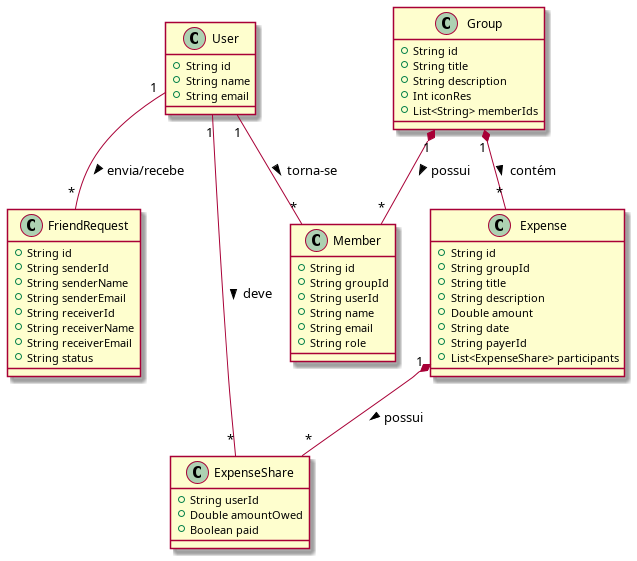
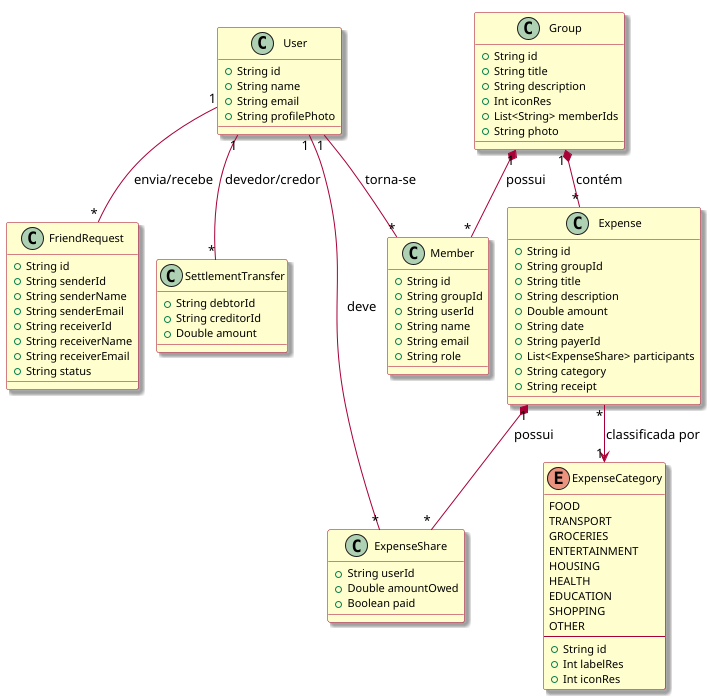
fix readme

diff --git a/app/src/main/java/com/example/divideai/ui/groups/form/GroupFormViewModel.kt b/app/src/main/java/com/example/divideai/ui/groups/form/GroupFormViewModel.kt
@@ -42,7 +42,7 @@ class GroupFormViewModel(application: Application) : AndroidViewModel(applicatio
     }
 
     private fun resolveImage(): String =
-        pendingImage ?: _groupToEdit.value?.imageBase64 ?: ""
+        pendingImage ?: _groupToEdit.value?.photo ?: ""
 
     fun saveGroup(title: String, description: String) {
         val app = getApplication<Application>()
@@ -58,7 +58,7 @@ class GroupFormViewModel(application: Application) : AndroidViewModel(applicatio
                 title = title,
                 description = description,
                 memberIds = _groupToEdit.value?.memberIds ?: emptyList(),
-                imageBase64 = resolveImage()
+                photo = resolveImage()
             )
             groupRepository.updateGroup(group) { success, errorMessage ->
                 _saveStatus.value = Pair(success, errorMessage)
@@ -66,7 +66,7 @@ class GroupFormViewModel(application: Application) : AndroidViewModel(applicatio
         } else {
             // Modo de criacao
             val currentUser = authRepository.getCurrentUser()
-            val group = Group(title = title, description = description, imageBase64 = resolveImage())
+            val group = Group(title = title, description = description, photo = resolveImage())
 
             groupRepository.addGroup(group) { success, errorMessage, newGroupId ->
                 if (!success || newGroupId == null) {

diff --git a/app/src/main/java/com/example/divideai/ui/profile/EditProfileActivity.kt b/app/src/main/java/com/example/divideai/ui/profile/EditProfileActivity.kt
@@ -47,7 +47,7 @@ class EditProfileActivity : AppCompatActivity() {
                 val name = doc.getString("name") ?: ""
                 binding.etUserName.setText(name)
 
-                val storedPhoto = doc.getString("profileImageBase64")
+                val storedPhoto = doc.getString("profilePhoto")
                 Base64Image.decode(storedPhoto)?.let { bmp ->
                     binding.ivAvatar.setImageBitmap(bmp)
                 }
@@ -133,8 +133,8 @@ class EditProfileActivity : AppCompatActivity() {
 
         val updates = mutableMapOf<String, Any>("name" to newName)
         when {
-            pendingPhotoBase64 != null -> updates["profileImageBase64"] = pendingPhotoBase64!!
-            photoRemoved -> updates["profileImageBase64"] = ""
+            pendingPhotoBase64 != null -> updates["profilePhoto"] = pendingPhotoBase64!!
+            photoRemoved -> updates["profilePhoto"] = ""
         }
 
         FirebaseFirestore.getInstance().collection("users").document(user.uid)

diff --git a/app/src/main/java/com/example/divideai/ui/expenses/form/ExpenseFormViewModel.kt b/app/src/main/java/com/example/divideai/ui/expenses/form/ExpenseFormViewModel.kt
@@ -93,7 +93,7 @@ class ExpenseFormViewModel(application: Application) : AndroidViewModel(applicat
         title: String,
         description: String,
         amountString: String,
-        receiptImageBase64: String = ""
+        receipt: String = ""
     ) {
         val app = getApplication<Application>()
         if (title.isBlank() || amountString.isBlank()) {
@@ -147,7 +147,7 @@ class ExpenseFormViewModel(application: Application) : AndroidViewModel(applicat
             payerId = payer.userId,
             participants = shares,
             category = (_selectedCategory.value ?: ExpenseCategory.DEFAULT).id,
-            receiptImageBase64 = receiptImageBase64
+            receipt = receipt
         )
 
         repository.addExpense(expense) { success, errorMessage ->

diff --git a/app/src/main/java/com/example/divideai/MainActivity.kt b/app/src/main/java/com/example/divideai/MainActivity.kt
@@ -75,7 +75,7 @@ class MainActivity : AppCompatActivity() {
         val profileImage = binding.topAppBar.findViewById<ImageView>(R.id.img_profile_action)
         FirebaseFirestore.getInstance().collection("users").document(uid).get()
             .addOnSuccessListener { doc ->
-                val bmp = Base64Image.decode(doc.getString("profileImageBase64"))
+                val bmp = Base64Image.decode(doc.getString("profilePhoto"))
                 if (bmp != null) {
                     profileImage.setImageBitmap(bmp)
                 } else {

diff --git a/app/src/main/java/com/example/divideai/data/image/UserAvatarCache.kt b/app/src/main/java/com/example/divideai/data/image/UserAvatarCache.kt
@@ -40,7 +40,7 @@ object UserAvatarCache {
         pending[uid] = newWaiters
         FirebaseFirestore.getInstance().collection("users").document(uid).get()
             .addOnSuccessListener { doc ->
-                val base64 = doc.getString("profileImageBase64") ?: ""
+                val base64 = doc.getString("profilePhoto") ?: ""
                 cache[uid] = base64
                 pending.remove(uid)?.forEach { it(base64.takeIf { v -> v.isNotEmpty() }) }
             }

diff --git a/app/src/main/java/com/example/divideai/data/model/Expense.kt b/app/src/main/java/com/example/divideai/data/model/Expense.kt
@@ -16,5 +16,5 @@ data class Expense(
     val payerId: String = "",
     val participants: List<ExpenseShare> = emptyList(),
     val category: String = "",
-    val receiptImageBase64: String = ""
+    val receipt: String = ""
 )

diff --git a/app/src/main/java/com/example/divideai/data/model/Group.kt b/app/src/main/java/com/example/divideai/data/model/Group.kt
@@ -6,5 +6,5 @@ data class Group(
     val description: String = "",
     val iconRes: Int? = null,
     val memberIds: List<String> = emptyList(),
-    val imageBase64: String = ""
+    val photo: String = ""
 )

diff --git a/app/src/main/java/com/example/divideai/data/model/User.kt b/app/src/main/java/com/example/divideai/data/model/User.kt
@@ -6,5 +6,5 @@ data class User(
     val id: String = "",
     val name: String = "",
     val email: String = "",
-    val profileImageBase64: String = ""
+    val profilePhoto: String = ""
 )

diff --git a/app/src/main/java/com/example/divideai/ui/expenses/details/ExpenseDetailsActivity.kt b/app/src/main/java/com/example/divideai/ui/expenses/details/ExpenseDetailsActivity.kt
@@ -60,7 +60,7 @@ class ExpenseDetailsActivity : AppCompatActivity() {
             binding.tvCategory.text = getString(category.labelRes)
             expense?.payerId?.let { binding.layoutPagador.ivAvatar.loadUserAvatar(it) }
 
-            renderReceipt(expense?.receiptImageBase64)
+            renderReceipt(expense?.receipt)
         }
 
         viewModel.payerName.observe(this) { nomePagador ->

diff --git a/app/src/main/java/com/example/divideai/ui/groups/GroupsAdapter.kt b/app/src/main/java/com/example/divideai/ui/groups/GroupsAdapter.kt
@@ -40,7 +40,7 @@ class GroupsAdapter(
             binding.txtGroupTitle.text = item.title
             binding.txtGroupDesc.text = item.description
 
-            val bmp = Base64Image.decode(item.imageBase64)
+            val bmp = Base64Image.decode(item.photo)
             if (bmp != null) {
                 binding.imgGroupPhoto.setImageBitmap(bmp)
                 binding.imgGroupPhoto.visibility = View.VISIBLE

diff --git a/app/src/main/java/com/example/divideai/ui/groups/details/GroupDetailsActivity.kt b/app/src/main/java/com/example/divideai/ui/groups/details/GroupDetailsActivity.kt
@@ -100,7 +100,7 @@ class GroupDetailsActivity : AppCompatActivity() {
                 binding.txtGroupTitle.text = group.title
                 binding.txtGroupDescription.text = group.description
 
-                val bmp = Base64Image.decode(group.imageBase64)
+                val bmp = Base64Image.decode(group.photo)
                 if (bmp != null) {
                     binding.imgGroupPhoto.setImageBitmap(bmp)
                     binding.imgGroupPhoto.visibility = View.VISIBLE

diff --git a/app/src/main/java/com/example/divideai/ui/groups/form/GroupFormActivity.kt b/app/src/main/java/com/example/divideai/ui/groups/form/GroupFormActivity.kt
@@ -111,7 +111,7 @@ class GroupFormActivity : AppCompatActivity() {
             group?.let {
                 binding.inputTitle.setText(it.title)
                 binding.inputDescription.setText(it.description)
-                if (it.imageBase64.isNotEmpty()) showPhoto(it.imageBase64)
+                if (it.photo.isNotEmpty()) showPhoto(it.photo)
             }
         }
     }